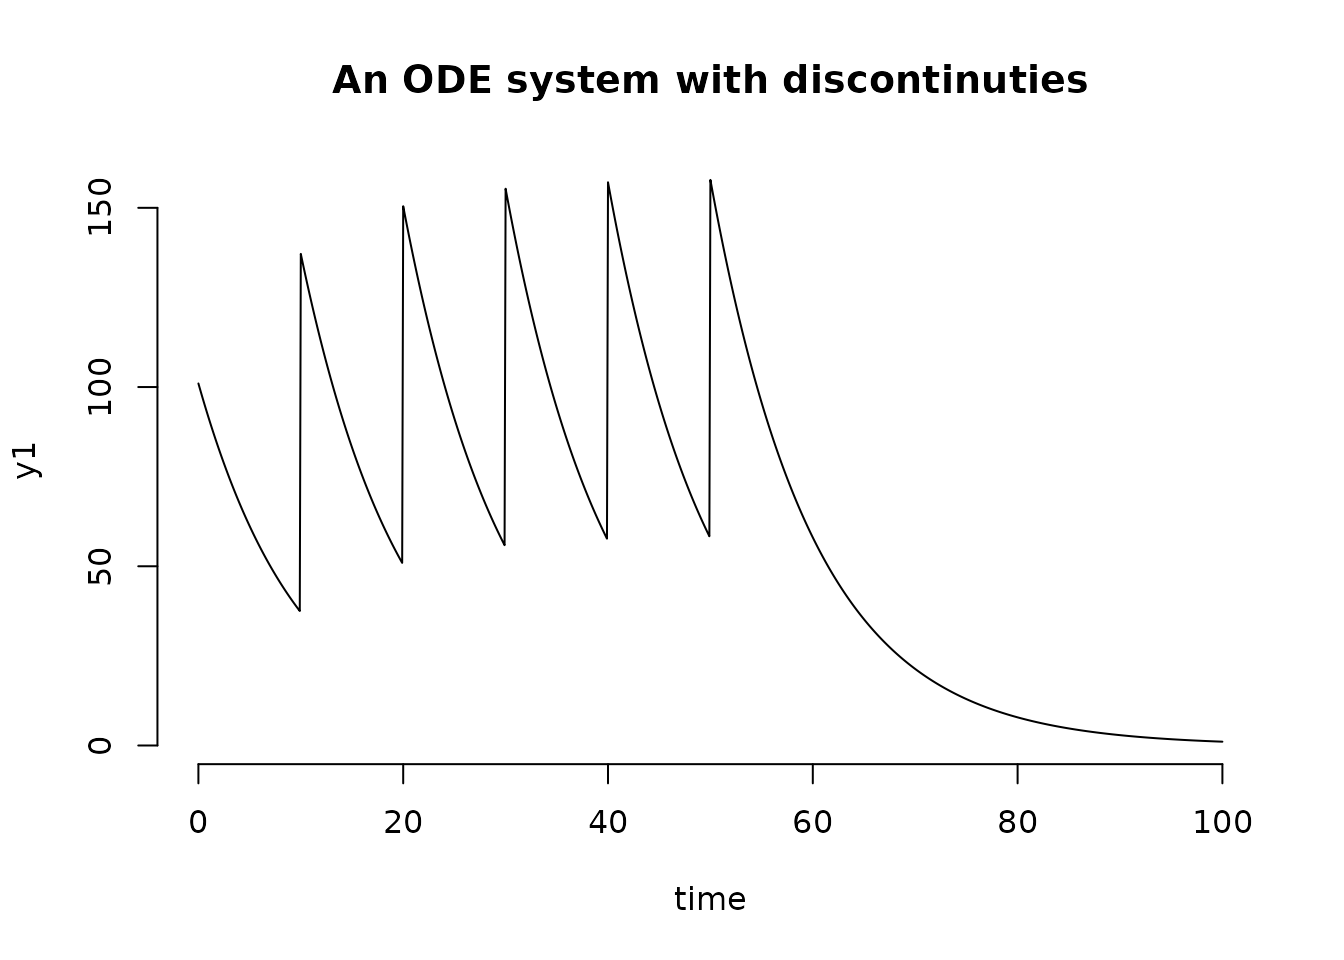
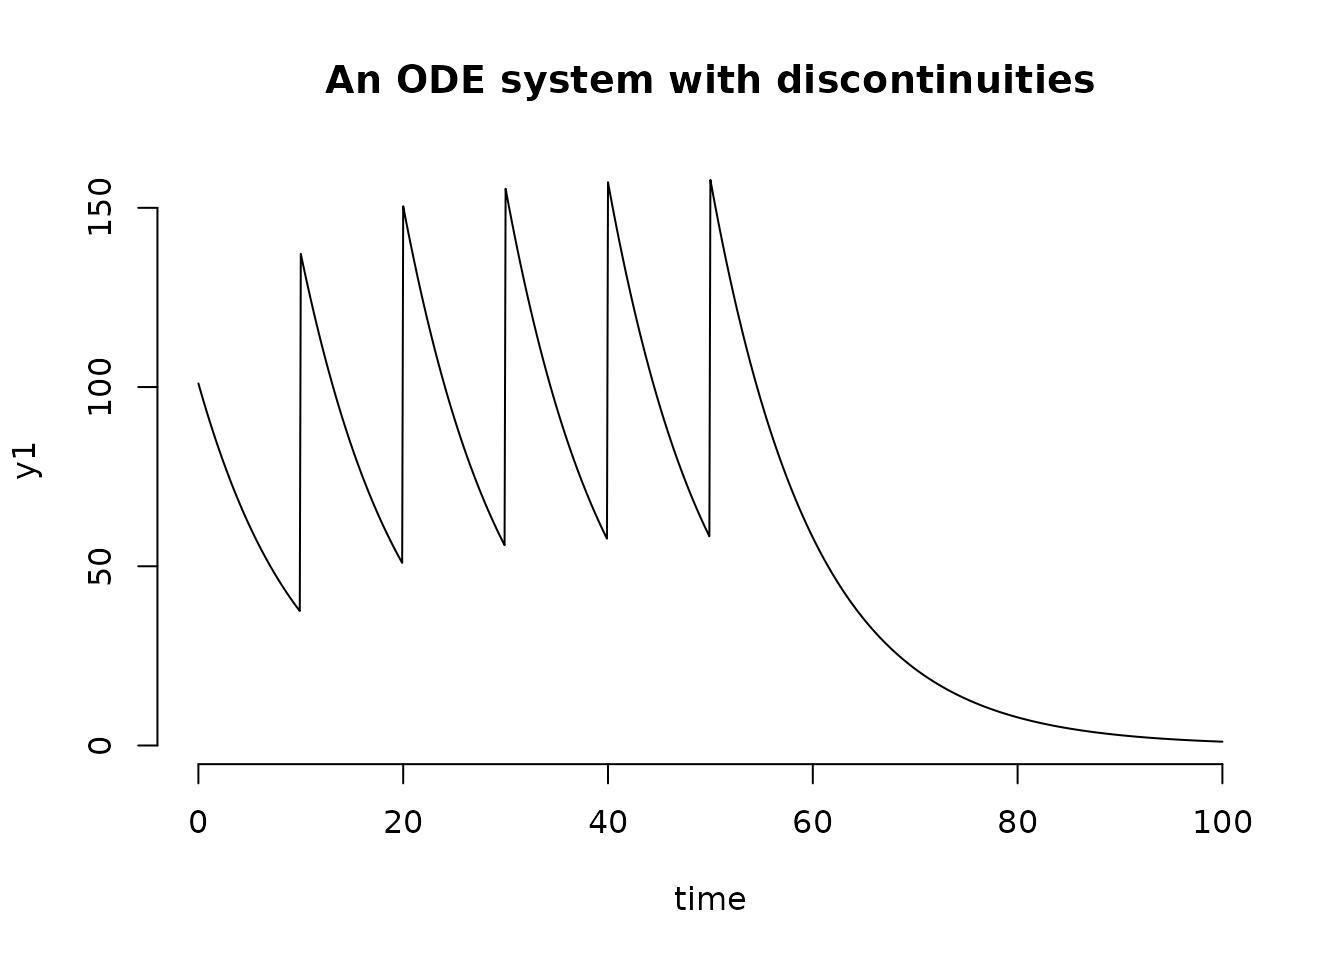
Deploying to gh-pages from @ sn248/sundialr@d0632483f8f2027ddfd4e0a538ac6368088d8a37 🚀

Changed region(s): [[0.2188, 0.0625, 0.8125, 0.125]]

diff --git a/articles/my-vignette.html b/articles/my-vignette.html
@@ -60,7 +60,7 @@
                         <h4 data-toc-skip class="author">Satyaprakash
 Nayak</h4>
             
-            <h4 data-toc-skip class="date">2026-10-17</h4>
+            <h4 data-toc-skip class="date">2026-10-18</h4>
       
       <small class="dont-index">Source: <a href="https://github.com/sn248/sundialr/blob/master/vignettes/my-vignette.Rmd" class="external-link"><code>vignettes/my-vignette.Rmd</code></a></small>
       <div class="d-none name"><code>my-vignette.Rmd</code></div>
@@ -88,8 +88,8 @@ calculate sensitivities.</p>
 <li><p><code>cvode</code> - An interface to the <code>CVODE</code>
 function in <code>SUNDIALS</code> to solve a system of ODEs.</p></li>
 <li><p><code>cvodes</code> - An interface to the <code>CVODES</code>
-function in <code>SUNDIALS</code> to calculate forward sensitivites with
-respect to parameters of the ODE system.</p></li>
+function in <code>SUNDIALS</code> to calculate forward sensitivities
+with respect to parameters of the ODE system.</p></li>
 <li><p><code>ida</code> - An interface to the <code>IDA</code> function
 in <code>SUNDIALS</code> to solve a system of Differential-Algebraic
 Equations (DAEs).</p></li>
@@ -355,7 +355,7 @@ this system of DAEs,</p>
 <span><span class="va">df1</span> <span class="op">&lt;-</span> <span class="fu">sundialr</span><span class="fu">::</span><span class="fu"><a href="../reference/ida.html">ida</a></span><span class="op">(</span><span class="va">time_vec</span>, <span class="va">IC</span>, <span class="va">IRes</span>, <span class="va">DAE_R</span> , <span class="va">params</span>, <span class="va">reltol</span>, <span class="va">abstol</span><span class="op">)</span> </span></code></pre></div>
 </div>
 <div class="section level2">
-<h2 id="solving-an-ode-system-with-discontinuties-in-solution">Solving an ODE system with discontinuties in solution<a class="anchor" aria-label="anchor" href="#solving-an-ode-system-with-discontinuties-in-solution"></a>
+<h2 id="solving-an-ode-system-with-discontinuities-in-solution">Solving an ODE system with discontinuities in solution<a class="anchor" aria-label="anchor" href="#solving-an-ode-system-with-discontinuities-in-solution"></a>
 </h2>
 <p>The <code>cvsolve</code> function defined in <code>sundialr</code>
 package provides a convenience interface to solve ODEs with one or more
@@ -416,8 +416,8 @@ state (the only state in this system) at the times specified by the
 <ul>
 <li><p><code>ID</code> represents the index of the state with
 discontinuity</p></li>
-<li><p><code>TIMES</code> represents the times at which discontinutiy is
-applied</p></li>
+<li><p><code>TIMES</code> represents the times at which a discontinuity
+is applied</p></li>
 <li><p><code>VAL</code> represents the value <strong>added</strong> to
 the value of the state at specified times.</p></li>
 </ul>
@@ -455,7 +455,7 @@ the value of the state at specified times.</p></li>
 <span><span class="co">## first column is time, second column is the state</span></span>
 <span><span class="va">time</span> <span class="op">&lt;-</span> <span class="va">df2</span><span class="op">[</span>,<span class="fl">1</span><span class="op">]</span></span>
 <span><span class="va">y1</span> <span class="op">&lt;-</span> <span class="va">df2</span><span class="op">[</span>,<span class="fl">2</span><span class="op">]</span></span>
-<span><span class="fu"><a href="https://rdrr.io/r/graphics/plot.default.html" class="external-link">plot</a></span><span class="op">(</span><span class="va">time</span>, <span class="va">y1</span>, type <span class="op">=</span> <span class="st">"l"</span>, lty <span class="op">=</span> <span class="fl">1</span>, main <span class="op">=</span> <span class="st">"An ODE system with discontinuties"</span>, frame.plot <span class="op">=</span> <span class="cn">F</span><span class="op">)</span>   </span></code></pre></div>
+<span><span class="fu"><a href="https://rdrr.io/r/graphics/plot.default.html" class="external-link">plot</a></span><span class="op">(</span><span class="va">time</span>, <span class="va">y1</span>, type <span class="op">=</span> <span class="st">"l"</span>, lty <span class="op">=</span> <span class="fl">1</span>, main <span class="op">=</span> <span class="st">"An ODE system with discontinuities"</span>, frame.plot <span class="op">=</span> <span class="cn">F</span><span class="op">)</span>   </span></code></pre></div>
 <p><img src="my-vignette_files/figure-html/unnamed-chunk-4-1.png" class="r-plt" alt="" width="672"></p>
 <p>Note that in the example above, <code>TSAMP</code> is the sampling
 time at which the solution is desired. The value in the
@@ -542,7 +542,7 @@ code can be found at this <a href="https://github.com/sn248/sundialr/blob/master
 <code class="sourceCode R"><span><span class="va">df1</span> <span class="op">&lt;-</span> <span class="fu"><a href="../reference/cvodes.html">cvodes</a></span><span class="op">(</span><span class="va">time_vec</span>, <span class="va">IC</span>, <span class="va">ODE_R</span> , <span class="va">params</span>, <span class="va">reltol</span>, <span class="va">abstol</span>,<span class="st">"STG"</span>,<span class="cn">F</span><span class="op">)</span>  <span class="co">## using R</span></span>
 <span><span class="va">df2</span> <span class="op">&lt;-</span> <span class="fu"><a href="../reference/cvodes.html">cvodes</a></span><span class="op">(</span><span class="va">time_vec</span>, <span class="va">IC</span>, <span class="va">ODE_Rcpp</span> , <span class="va">params</span>, <span class="va">reltol</span>, <span class="va">abstol</span>,<span class="st">"STG"</span>,<span class="cn">F</span><span class="op">)</span>  <span class="co">## using Rcpp</span></span></code></pre></div>
 <p>The additional arguments in <code>cvodes</code> specify the
-senstivity calculation method to be used (<code>STG</code> for
+sensitivity calculation method to be used (<code>STG</code> for
 <code>STAGGERED</code> or <code>SIM</code> for
 <code>SIMULATENOUS</code>) and flag for error control (either
 <code>T</code> or <code>F</code>).</p>
@@ -550,7 +550,7 @@ senstivity calculation method to be used (<code>STG</code> for
 equal to the length of the time vector (<code>time_vec</code>) and the
 number of columns being equal to length of (<code>y</code>
 <math display="inline" xmlns="http://www.w3.org/1998/Math/MathML"><semantics><mi>×</mi><annotation encoding="application/x-tex">\times</annotation></semantics></math><code>p</code> + 1). The first columns is for time. Currently, the
-sensitivity of every enitity is calculated with respect to every
+sensitivity of every entity is calculated with respect to every
 parameter in model. For example, for the current model with
 <code>3</code> entities (ODEs) and <code>3</code> parameters, a total of
 <code>9</code> sensitivities are calculated at each output time,
@@ -757,7 +757,7 @@ threads, one per thread, is documented in the comments of
 </h2>
 <ul>
 <li><p>The package <code>sundialr</code> provides a way to interface
-with the famous <code>SUNDIALS</code> C library (provided by Lawerence
+with the famous <code>SUNDIALS</code> C library (provided by Lawrence
 Livermore National Security) to solver initial value problems.</p></li>
 <li><p>The package allows the system of differential equations to be
 written in <code>R</code> or using <code>Rcpp</code>. Function

diff --git a/reference/cvsolve.html b/reference/cvsolve.html
@@ -1,5 +1,5 @@
 <!DOCTYPE html>
-<!-- Generated by pkgdown: do not edit by hand --><html lang="en"><head><meta http-equiv="Content-Type" content="text/html; charset=UTF-8"><meta charset="utf-8"><meta http-equiv="X-UA-Compatible" content="IE=edge"><meta name="viewport" content="width=device-width, initial-scale=1, shrink-to-fit=no"><title>cvsolve — cvsolve • sundialr</title><script src="../deps/jquery-3.6.0/jquery-3.6.0.min.js"></script><meta name="viewport" content="width=device-width, initial-scale=1, shrink-to-fit=no"><link href="../deps/bootstrap-5.3.8/bootstrap.min.css" rel="stylesheet"><script src="../deps/bootstrap-5.3.8/bootstrap.bundle.min.js"></script><link href="../deps/font-awesome-6.5.2/css/all.min.css" rel="stylesheet"><link href="../deps/font-awesome-6.5.2/css/v4-shims.min.css" rel="stylesheet"><script src="../deps/headroom-0.11.0/headroom.min.js"></script><script src="../deps/headroom-0.11.0/jQuery.headroom.min.js"></script><script src="../deps/bootstrap-toc-1.0.1/bootstrap-toc.min.js"></script><script src="../deps/clipboard.js-2.0.11/clipboard.min.js"></script><script src="../deps/search-1.0.0/autocomplete.jquery.min.js"></script><script src="../deps/search-1.0.0/fuse.min.js"></script><script src="../deps/search-1.0.0/mark.min.js"></script><!-- pkgdown --><script src="../pkgdown.js"></script><meta property="og:title" content="cvsolve — cvsolve"><meta name="description" content="CVSOLVE solver to solve stiff ODEs with discontinuties"><meta property="og:description" content="CVSOLVE solver to solve stiff ODEs with discontinuties"></head><body>
+<!-- Generated by pkgdown: do not edit by hand --><html lang="en"><head><meta http-equiv="Content-Type" content="text/html; charset=UTF-8"><meta charset="utf-8"><meta http-equiv="X-UA-Compatible" content="IE=edge"><meta name="viewport" content="width=device-width, initial-scale=1, shrink-to-fit=no"><title>cvsolve — cvsolve • sundialr</title><script src="../deps/jquery-3.6.0/jquery-3.6.0.min.js"></script><meta name="viewport" content="width=device-width, initial-scale=1, shrink-to-fit=no"><link href="../deps/bootstrap-5.3.8/bootstrap.min.css" rel="stylesheet"><script src="../deps/bootstrap-5.3.8/bootstrap.bundle.min.js"></script><link href="../deps/font-awesome-6.5.2/css/all.min.css" rel="stylesheet"><link href="../deps/font-awesome-6.5.2/css/v4-shims.min.css" rel="stylesheet"><script src="../deps/headroom-0.11.0/headroom.min.js"></script><script src="../deps/headroom-0.11.0/jQuery.headroom.min.js"></script><script src="../deps/bootstrap-toc-1.0.1/bootstrap-toc.min.js"></script><script src="../deps/clipboard.js-2.0.11/clipboard.min.js"></script><script src="../deps/search-1.0.0/autocomplete.jquery.min.js"></script><script src="../deps/search-1.0.0/fuse.min.js"></script><script src="../deps/search-1.0.0/mark.min.js"></script><!-- pkgdown --><script src="../pkgdown.js"></script><meta property="og:title" content="cvsolve — cvsolve"><meta name="description" content="CVSOLVE solver to solve stiff ODEs with discontinuities"><meta property="og:description" content="CVSOLVE solver to solve stiff ODEs with discontinuities"></head><body>
     <a href="#main" class="visually-hidden-focusable">Skip to contents</a>
 
 
@@ -38,7 +38,7 @@
     </div>
 
     <div class="ref-description section level2">
-    <p>CVSOLVE solver to solve stiff ODEs with discontinuties</p>
+    <p>CVSOLVE solver to solve stiff ODEs with discontinuities</p>
     </div>
 
     <div class="section level2">

diff --git a/reference/ida.html b/reference/ida.html
@@ -68,7 +68,7 @@
 
 
 <dt id="arg-ires">IRes<a class="anchor" aria-label="anchor" href="#arg-ires"></a></dt>
-<dd><p>Inital Value of ydot</p></dd>
+<dd><p>Initial value of ydot</p></dd>
 
 
 <dt id="arg-input-function">input_function<a class="anchor" aria-label="anchor" href="#arg-input-function"></a></dt>

diff --git a/articles/my-vignette.md b/articles/my-vignette.md
@@ -21,7 +21,7 @@ The four exported functions from the package are:
   a system of ODEs.
 
 - `cvodes` - An interface to the `CVODES` function in `SUNDIALS` to
-  calculate forward sensitivites with respect to parameters of the ODE
+  calculate forward sensitivities with respect to parameters of the ODE
   system.
 
 - `ida` - An interface to the `IDA` function in `SUNDIALS` to solve a
@@ -305,7 +305,7 @@ abstol <- c(1e-8,1e-14,1e-6)
 df1 <- sundialr::ida(time_vec, IC, IRes, DAE_R , params, reltol, abstol) 
 ```
 
-## Solving an ODE system with discontinuties in solution
+## Solving an ODE system with discontinuities in solution
 
 The `cvsolve` function defined in `sundialr` package provides a
 convenience interface to solve ODEs with one or more discontinuities in
@@ -364,7 +364,7 @@ state (the only state in this system) at the times specified by the
 
 - `ID` represents the index of the state with discontinuity
 
-- `TIMES` represents the times at which discontinutiy is applied
+- `TIMES` represents the times at which a discontinuity is applied
 
 - `VAL` represents the value **added** to the value of the state at
   specified times.
@@ -405,7 +405,7 @@ df2 <- sundialr::cvsolve(TSAMP, c(1), ODE_R, params, TDOSE)  # solving with disc
 ## first column is time, second column is the state
 time <- df2[,1]
 y1 <- df2[,2]
-plot(time, y1, type = "l", lty = 1, main = "An ODE system with discontinuties", frame.plot = F)   
+plot(time, y1, type = "l", lty = 1, main = "An ODE system with discontinuities", frame.plot = F)   
 ```
 
 ![](my-vignette_files/figure-html/unnamed-chunk-4-1.png)
@@ -494,14 +494,14 @@ df1 <- cvodes(time_vec, IC, ODE_R , params, reltol, abstol,"STG",F)  ## using R
 df2 <- cvodes(time_vec, IC, ODE_Rcpp , params, reltol, abstol,"STG",F)  ## using Rcpp
 ```
 
-The additional arguments in `cvodes` specify the senstivity calculation
+The additional arguments in `cvodes` specify the sensitivity calculation
 method to be used (`STG` for `STAGGERED` or `SIM` for `SIMULATENOUS`)
 and flag for error control (either `T` or `F`).
 
 The output of `cvodes` is a matrix with number of rows equal to the
 length of the time vector (`time_vec`) and the number of columns being
 equal to length of (`y` $`\times`$`p` + 1). The first columns is for
-time. Currently, the sensitivity of every enitity is calculated with
+time. Currently, the sensitivity of every entity is calculated with
 respect to every parameter in model. For example, for the current model
 with `3` entities (ODEs) and `3` parameters, a total of `9`
 sensitivities are calculated at each output time, i.e. `y1` w.r.t `p1`,
@@ -704,7 +704,7 @@ Some points to note:
 ## Summary
 
 - The package `sundialr` provides a way to interface with the famous
-  `SUNDIALS` C library (provided by Lawerence Livermore National
+  `SUNDIALS` C library (provided by Lawrence Livermore National
   Security) to solver initial value problems.
 
 - The package allows the system of differential equations to be written

diff --git a/reference/cvsolve.md b/reference/cvsolve.md
@@ -1,6 +1,6 @@
 # cvsolve
 
-CVSOLVE solver to solve stiff ODEs with discontinuties
+CVSOLVE solver to solve stiff ODEs with discontinuities
 
 ## Usage
 

diff --git a/reference/ida.md b/reference/ida.md
@@ -29,7 +29,7 @@ ida(
 
 - IRes:
 
-  Inital Value of ydot
+  Initial value of ydot
 
 - input_function:
 
